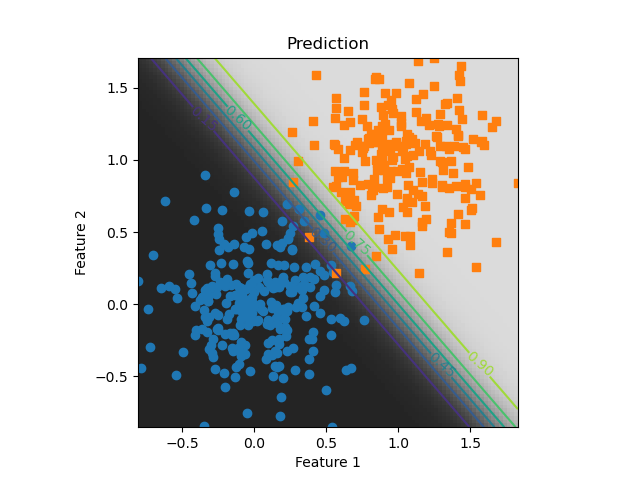
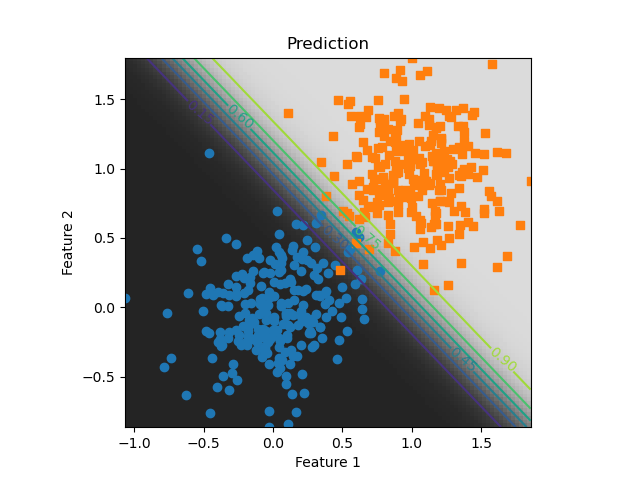
MLP XOR

diff --git a/Project1/src/sf_classifier_examples.py b/Project1/src/sf_classifier_examples.py
@@ -70,7 +70,7 @@ def logistic_regression_clusters(lr=.05, epochs=100):
     classifier.plot_2d_predictions(dataset_train_x, dataset_train_y)
 
 
-def mlp_xor(lr=.05, epochs=100, activation='sigmoid'):
+def mlp_xor(lr=.05, epochs=500, activation='sigmoid'):
     dataset_train_x, dataset_train_y = noisy_xor(500)
     dataset_test_x, dataset_test_y = noisy_xor(500)
 
